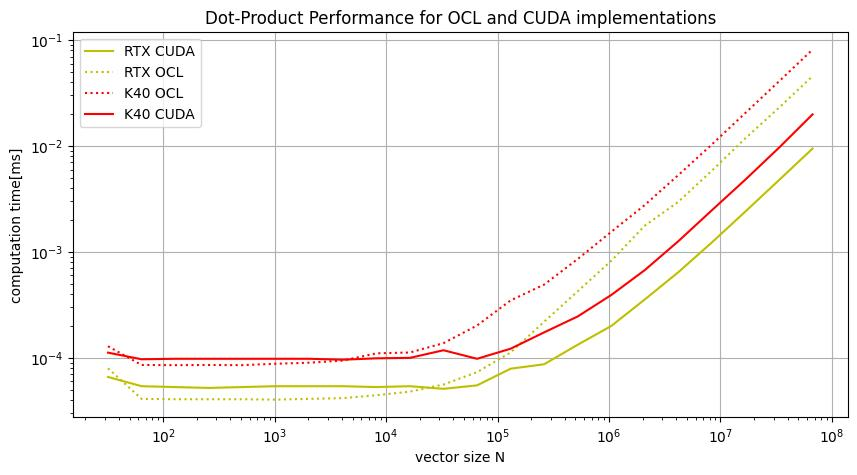
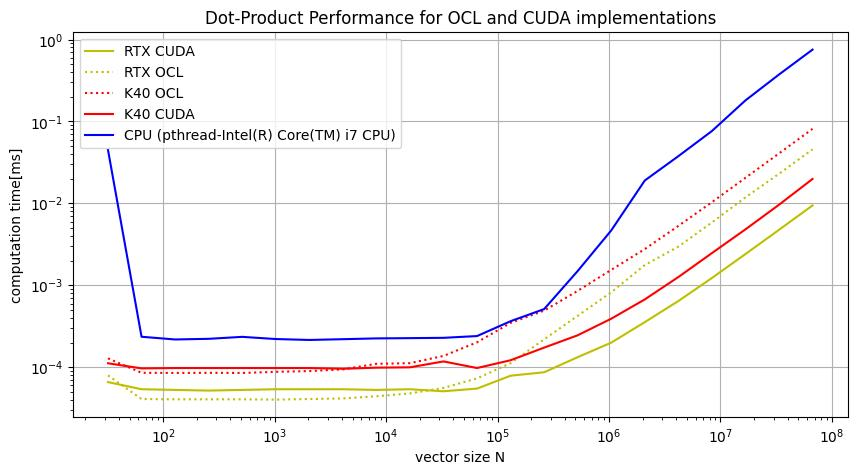
cpu tested

diff --git a/a8/opencl_dot_product.cpp b/a8/opencl_dot_product.cpp
@@ -66,7 +66,7 @@ int main()
   cl_uint num_platforms;
   cl_platform_id platform_ids[42];   //no more than 42 platforms supported...
   err = clGetPlatformIDs(42, platform_ids, &num_platforms); OPENCL_ERR_CHECK(err);
-  cl_platform_id my_platform = platform_ids[0];
+  cl_platform_id my_platform = platform_ids[1];
   err= clGetPlatformInfo(my_platform, CL_PLATFORM_VENDOR, sizeof(char)*63, platform_name, &platform_name_len);
 
 
@@ -85,12 +85,12 @@ int main()
   err = clGetDeviceInfo(my_device_id, CL_DEVICE_NAME, sizeof(char)*63, device_name, &device_name_len); OPENCL_ERR_CHECK(err);
 
   // platform and device info
-  /*
+  
   std::cout << "# Platforms found: " << num_platforms << std::endl;
   std::cout << "Using the following platform: " << platform_name << std::endl;
   std::cout << "# Devices found: " << num_devices << std::endl;
-  std::cout << "Using the following device: " << device_name << std::endl;
-  */
+  std::cout << "Using the following device: \n\n" << device_name << std::endl;
+  
 
   //
   // Create context: WHERE IS CONTEXT LINKED TO PLATFORM?

diff --git a/a8/plot.py b/a8/plot.py
@@ -19,6 +19,8 @@ filepath3 = "data/dp_rtx_cuda.txt"
 data_3= np.genfromtxt(filepath3, dtype=float, delimiter=' ')
 filepath4 = "data/dp_k40_cuda.txt"
 data_4= np.genfromtxt(filepath4, dtype=float, delimiter=' ')
+filepath5 = "data/dp_cpu.txt"
+data_5= np.genfromtxt(filepath5, dtype=float, delimiter=' ')
 
 
 # filepath6 = "data/ex2cg.txt"
@@ -36,6 +38,7 @@ rtx_cuda= []
 rtx_ocl= []
 k40_cuda=[]
 k40_ocl=[]
+cpu=[]
 
 for i in range(len(data_1)):
     N.append(data_1
@@ -47,6 +50,8 @@ for i in range(len(data_1)):
     k40_cuda.append(data_4
              [i][1])
     k40_ocl.append(data_2
+             [i][1])
+    cpu.append(data_5
              [i][1])
 
 
@@ -60,6 +65,8 @@ plt.plot(N, k40_ocl,
          label="K40 OCL", color='r',linestyle='dotted')
 plt.plot(N, k40_cuda,
          label="K40 CUDA", color='r')
+plt.plot(N, cpu,
+         label="CPU (pthread-Intel(R) Core(TM) i7 CPU)", color='b')
 
 plt.xscale('log', base=10)
 plt.yscale('log', base=10)
